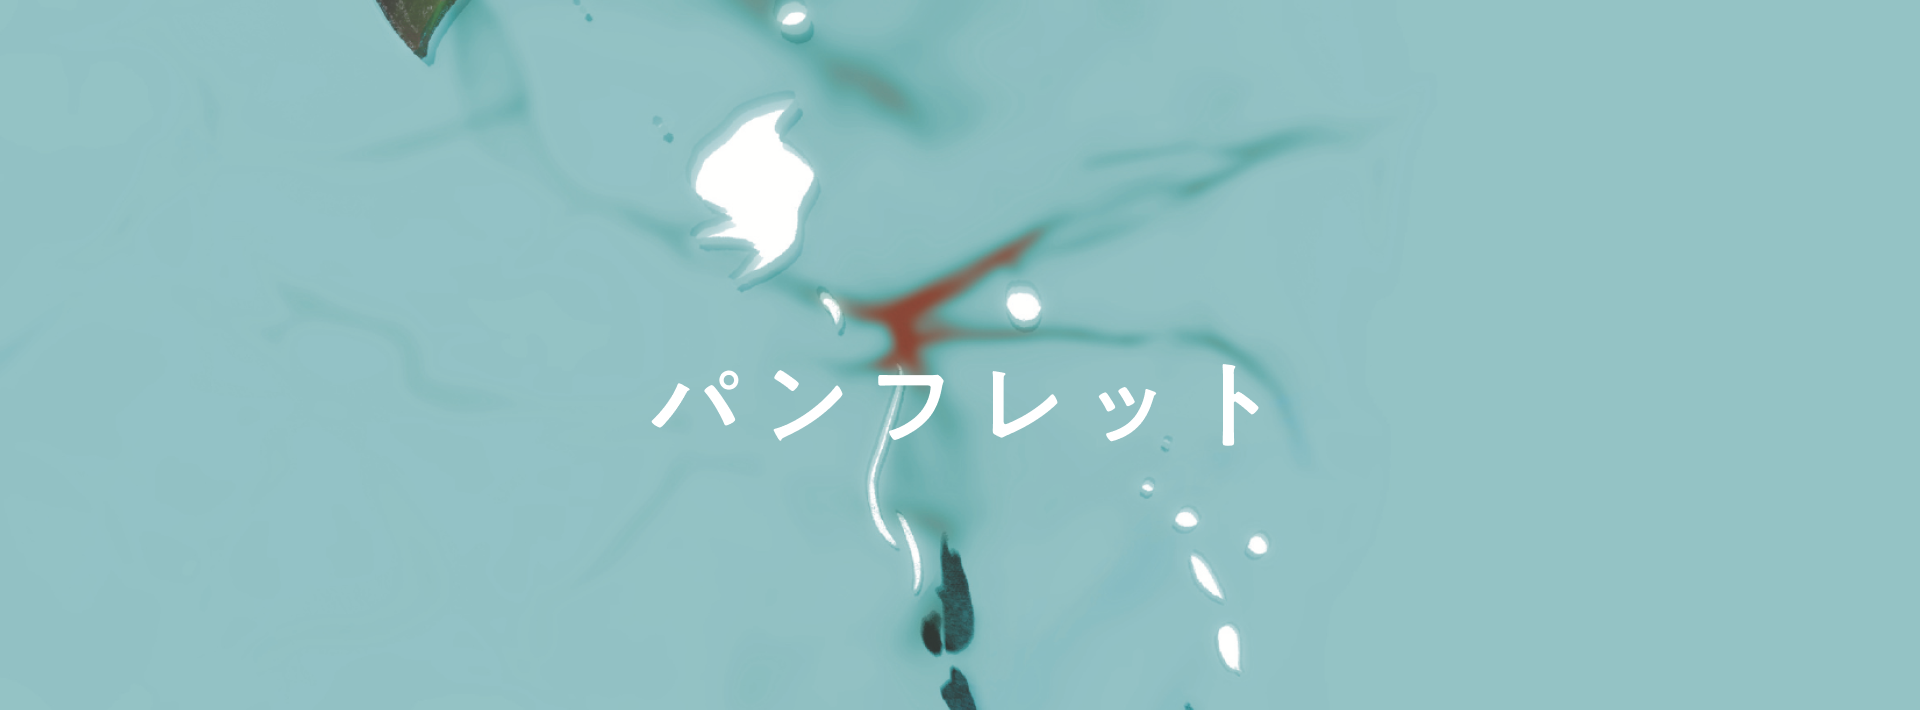
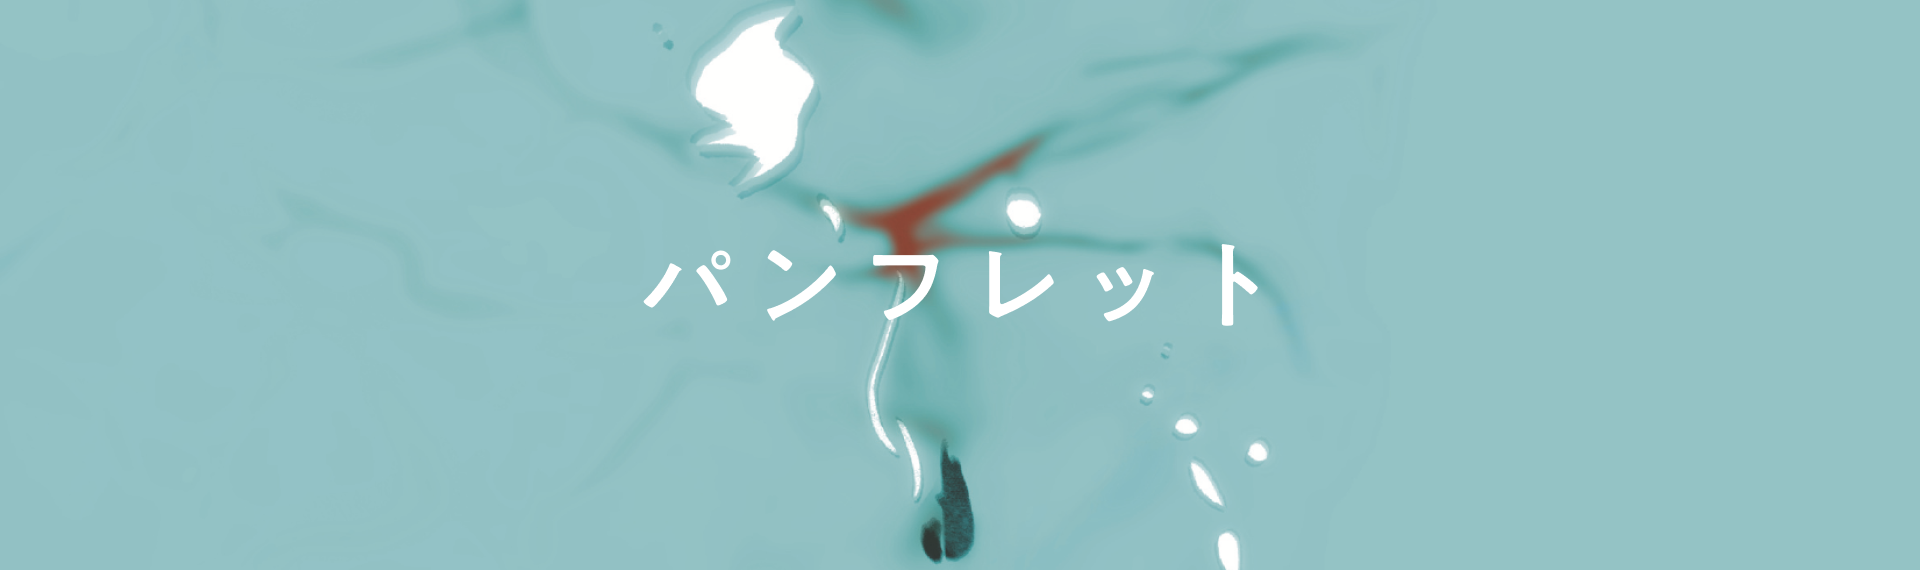
[add][mobile]パンフレット・校内マップ
pamhplet.html map.htmlモバイル実装

diff --git a/css/pamphlet.css b/css/pamphlet.css
@@ -1,12 +1,93 @@
 /*スマホ用のスタイル*/
 @media only screen and (max-width: 600px) {
+    #topImage{
+        width: 100%;
+        height: 50vw;
+        margin:0 0;
+        padding: 60px 0 0;
+    }
 
+    #topImage_desktop{
+        width: 100%;
+        height: 100%;
+        margin: 0 0;
+        padding: 0;
+        object-fit: cover;
+    }
+
+    .section{
+        position: relative;
+        width: 88%;
+        margin-left: 6%;
+        margin-top: 40px;
+        margin-bottom: 40px;
+    }
+
+    .pamphlet_letter img{
+        height: 20px;
+        margin: 6px 0;
+    }
+
+    #pamphlet_icon{
+        margin-left: 10px;
+    }
+
+    .swiper-slide {
+      text-align: center;
+      display: flex;
+      justify-content: center;
+      align-items: center;
+    }
+
+    .append-buttons {
+        text-align: center;
+    }
+      
+    .append-buttons button {
+        display: inline-block;
+        cursor: pointer;
+    }
+      
+    /* 前へ次への矢印カスタマイズ */
+    .swiper-button-prev,.swiper-button-next
+     {
+        display: none;
+    }
+      
+   /* ページネーションの基本スタイル */
+    .swiper-pagination-bullet {
+        background-color: transparent;
+        background-image: url(../files/pamphlet_before.svg);
+        background-repeat: no-repeat;
+        background-size: contain;
+        border-radius: unset; 
+        height: 8px;
+        width: 8px;
+        opacity: 1; 
+    }
+    
+    .swiper-pagination-bullet-active {
+        background-image: url(../files/pamphlet_after.svg);
+        height: 8px;
+        width: 8px;
+    }
+
+    .swiper-slide img {
+      height: auto;
+      width: 100%;
+    }
+
+    .swiper-pagination{
+        position: relative;
+        margin: 20px 0 70px;
+    }
 }
 
 /*タブレット・パソコン用のスタイル*/
 @media only screen and (min-width: 600px) {
     #topImage_desktop{
         width: 100%;
+        margin-top: 60px;
     }
 
     .section{
@@ -22,7 +103,8 @@
     }
 
     .pamphlet_letter img{
-        height: 60px;
+        height: 26px;
+        margin: 16px 0;
     }
 
     .swiper-slide {

diff --git a/pamphlet.html b/pamphlet.html
@@ -20,12 +20,28 @@
         <link href="https://fonts.googleapis.com/css2?family=Noto+Sans+JP:wght@400;500;700&family=Zen+Kaku+Gothic+Antique:wght@500;700&family=Zen+Kaku+Gothic+New:wght@500;700&display=swap" rel="stylesheet">
     </head>
     <body>
+        <header>
+            <a href="index.html"><img id="header_icon" src="files/header_icon.png"></a>
+            <!--  ハンバーガーボタン  -->
+            <div class="hamburger"><span></span><span></span><span></span></div>
+            <nav class="hamburger_list">
+                <div id="header_top" class="header_menu"><a href="index.html" class="header_menu"><h1>トップページ</h1></a></div>
+                <div id="header_contents" class="header_menu toggle_menu"><a href="index.html#section_contents" class="header_menu"><h1>コンテンツ</h1></a><div class="subMenu"><span></span><span></span></div></div>
+                <a class="menu_open" href="pamphlet.html"><h3>デジタル版パンフレット</h3></a>
+                <a class="menu_open" href="themeillust.html"><h3>テーマイラスト紹介</h3></a>
+                <a class="menu_open" href="map.html"><h3>校内マップ</h3></a>
+                <a class="menu_open" href="tenji.html"><h3>展示内容紹介</h3></a>
+                <div id="header_articles" class="header_menu"><a href="articles.html"><h1>記事一覧</h1></a></div>
+                <div id="header_about" class="header_menu"><a href="about.html" class="header_menu"><h1>彩西祭について</h1></a></div>
+            </nav>
+            <div class="circle-bg"></div>
+        </header>
         <div id="topImage">
             <img id="topImage_desktop" src="files/pamphlet_top.png" alt="">
         </div>
         <div class="section">
             <div class="pamphlet_letter">
-                <img src="files/pamphlet.svg" alt="">
+                <a href="#"><img src="files/pamphlet.svg" alt=""></a>
             </div>
             <div class="swiper-button-next"></div>
             <div class="swiper-button-prev"></div>

diff --git a/map.html b/map.html
@@ -20,12 +20,28 @@
         <link href="https://fonts.googleapis.com/css2?family=Noto+Sans+JP:wght@400;500;700&family=Zen+Kaku+Gothic+Antique:wght@500;700&family=Zen+Kaku+Gothic+New:wght@500;700&display=swap" rel="stylesheet">
     </head>
     <body>
+        <header>
+            <a href="index.html"><img id="header_icon" src="files/header_icon.png"></a>
+            <!--  ハンバーガーボタン  -->
+            <div class="hamburger"><span></span><span></span><span></span></div>
+            <nav class="hamburger_list">
+                <div id="header_top" class="header_menu"><a href="index.html" class="header_menu"><h1>トップページ</h1></a></div>
+                <div id="header_contents" class="header_menu toggle_menu"><a href="index.html#section_contents" class="header_menu"><h1>コンテンツ</h1></a><div class="subMenu"><span></span><span></span></div></div>
+                <a class="menu_open" href="pamphlet.html"><h3>デジタル版パンフレット</h3></a>
+                <a class="menu_open" href="themeillust.html"><h3>テーマイラスト紹介</h3></a>
+                <a class="menu_open" href="map.html"><h3>校内マップ</h3></a>
+                <a class="menu_open" href="tenji.html"><h3>展示内容紹介</h3></a>
+                <div id="header_articles" class="header_menu"><a href="articles.html"><h1>記事一覧</h1></a></div>
+                <div id="header_about" class="header_menu"><a href="about.html" class="header_menu"><h1>彩西祭について</h1></a></div>
+            </nav>
+            <div class="circle-bg"></div>
+        </header>
         <div id="topImage">
             <img id="topImage_desktop" src="files/map_top.png" alt="">
         </div>
         <div class="section">
             <div class="map_letter">
-                <img src="files/map.svg" alt="">
+                <a href="#"><img src="files/map.svg" alt=""></a>
             </div> 
             <div class="map_box"><img src="files/pamphlet_example.png" alt=""></div>
         </div>

diff --git a/index.html b/index.html
@@ -21,17 +21,16 @@
     </head>
     <body>
         <header>
-            
-            <img id="header_icon" src="files/header_icon.png">
+            <a href="index.html"><img id="header_icon" src="files/header_icon.png"></a>
             <!--  ハンバーガーボタン  -->
             <div class="hamburger"><span></span><span></span><span></span></div>
             <nav class="hamburger_list">
                 <div id="header_top" class="header_menu"><a href="index.html" class="header_menu"><h1>トップページ</h1></a></div>
-                <div id="header_contents" class="header_menu toggle_menu"><a href="index.html" class="header_menu"><h1>コンテンツ</h1></a><div class="subMenu"><span></span><span></span></div></div>
-                <a class="menu_open" href="index.html"><h3>デジタル版パンフレット</h3></a>
-                <a class="menu_open" href="index.html"><h3>テーマイラスト紹介</h3></a>
-                <a class="menu_open" href="index.html"><h3>校内マップ</h3></a>
-                <a class="menu_open" href="index.html"><h3>展示内容紹介</h3></a>
+                <div id="header_contents" class="header_menu toggle_menu"><a href="index.html#section_contents" class="header_menu"><h1>コンテンツ</h1></a><div class="subMenu"><span></span><span></span></div></div>
+                <a class="menu_open" href="pamphlet.html"><h3>デジタル版パンフレット</h3></a>
+                <a class="menu_open" href="themeillust.html"><h3>テーマイラスト紹介</h3></a>
+                <a class="menu_open" href="map.html"><h3>校内マップ</h3></a>
+                <a class="menu_open" href="tenji.html"><h3>展示内容紹介</h3></a>
                 <div id="header_articles" class="header_menu"><a href="articles.html"><h1>記事一覧</h1></a></div>
                 <div id="header_about" class="header_menu"><a href="about.html" class="header_menu"><h1>彩西祭について</h1></a></div>
             </nav>

diff --git a/css/map.css b/css/map.css
@@ -1,12 +1,46 @@
 /*スマホ用のスタイル*/
 @media only screen and (max-width: 600px) {
+    #topImage{
+        width: 100%;
+        height: 50vw;
+        margin:0 0;
+        padding: 60px 0 0;
+    }
 
+    #topImage_desktop{
+        width: 100%;
+        height: 100%;
+        margin: 0 0;
+        padding: 0;
+        object-fit: cover;
+    }
+
+    .section{
+        position: relative;
+        width: 88%;
+        margin-left: 6%;
+        margin-top: 40px;
+        margin-bottom: 40px;
+    }
+
+    .map_letter img{
+        height: 20px;
+        margin: 6px;
+    }
+
+    .map_box img{
+        text-align: center;
+        height: auto;
+        width: 100%;
+    }
 }
+
 
 /*タブレット・パソコン用のスタイル*/
 @media only screen and (min-width: 600px) {
     #topImage_desktop{
         width: 100%;
+        margin-top: 60px;
     }
 
     .section{
@@ -18,7 +52,8 @@
     }
 
     .map_letter img{
-        height: 60px;
+        height: 26px;
+        margin: 16px 0;
     }
 
     .map_box img{
